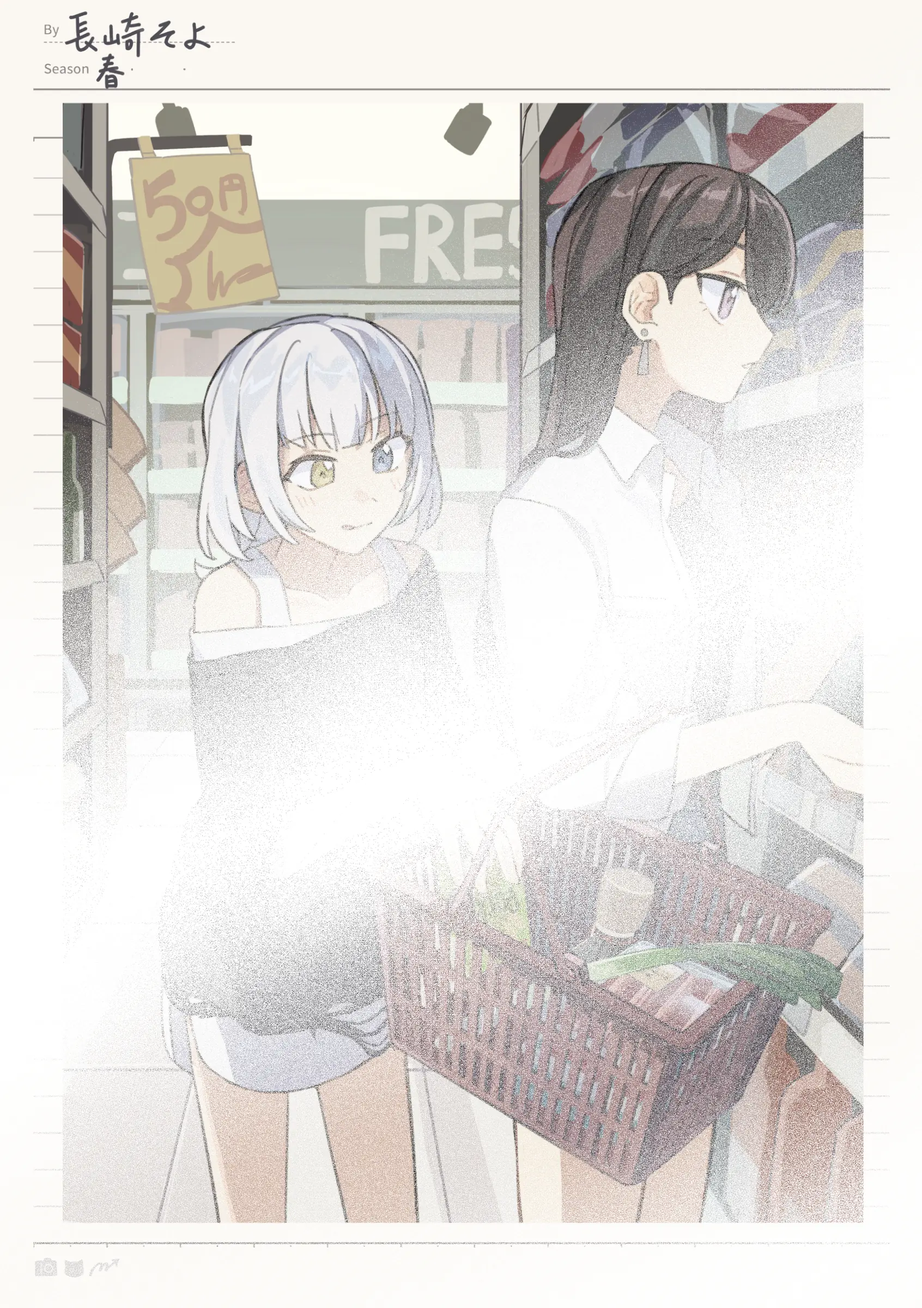
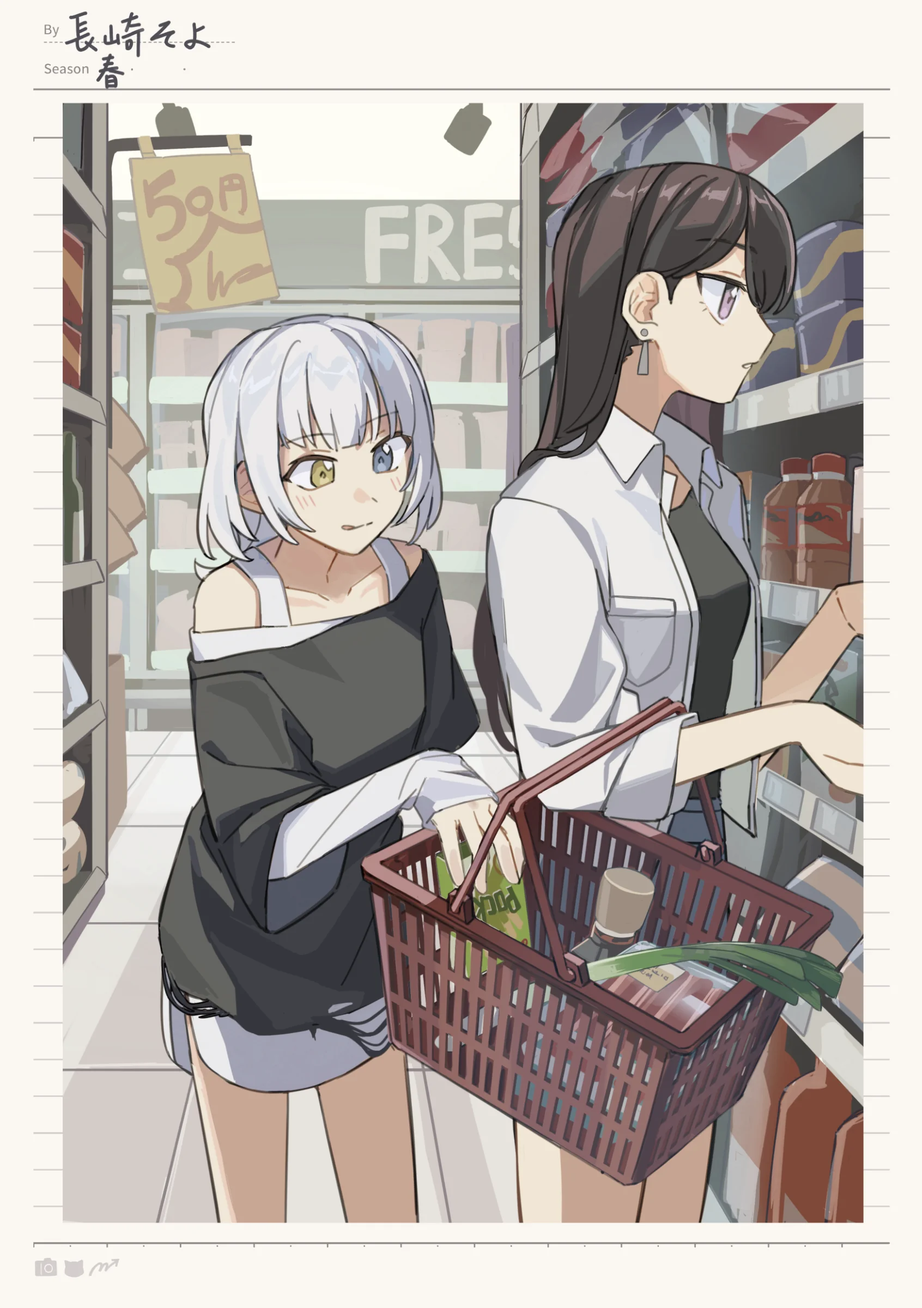
Remove watermark from p7-8

diff --git a/convert.py b/convert.py
@@ -21,7 +21,7 @@ WM_QUALITY = 75      # 有浮水印的頁面畫質（浮水印的顆粒很佔空
 
 HERE = Path(__file__).parent
 WATERMARK = HERE / '浮水印.png'
-WATERMARK_PAGES = range(7, 25)   # 第 7～24 頁蓋浮水印（PDF 頁碼，含頭尾）
+WATERMARK_PAGES = range(9, 25)   # 第 9～24 頁蓋浮水印（PDF 頁碼，含頭尾）
 WATERMARK_OPACITY = {}   # 個別頁面的浮水印透明度（沒列出的是 100%）
 WHITE_PAGES = set(range(15, 25))   # 第 15～24 頁蓋成白頁（敬請期待）
 WHITE_PAGE_COVER = HERE / '浮水印2.png'   # 白底頁先整張蓋上這張圖（100%）
